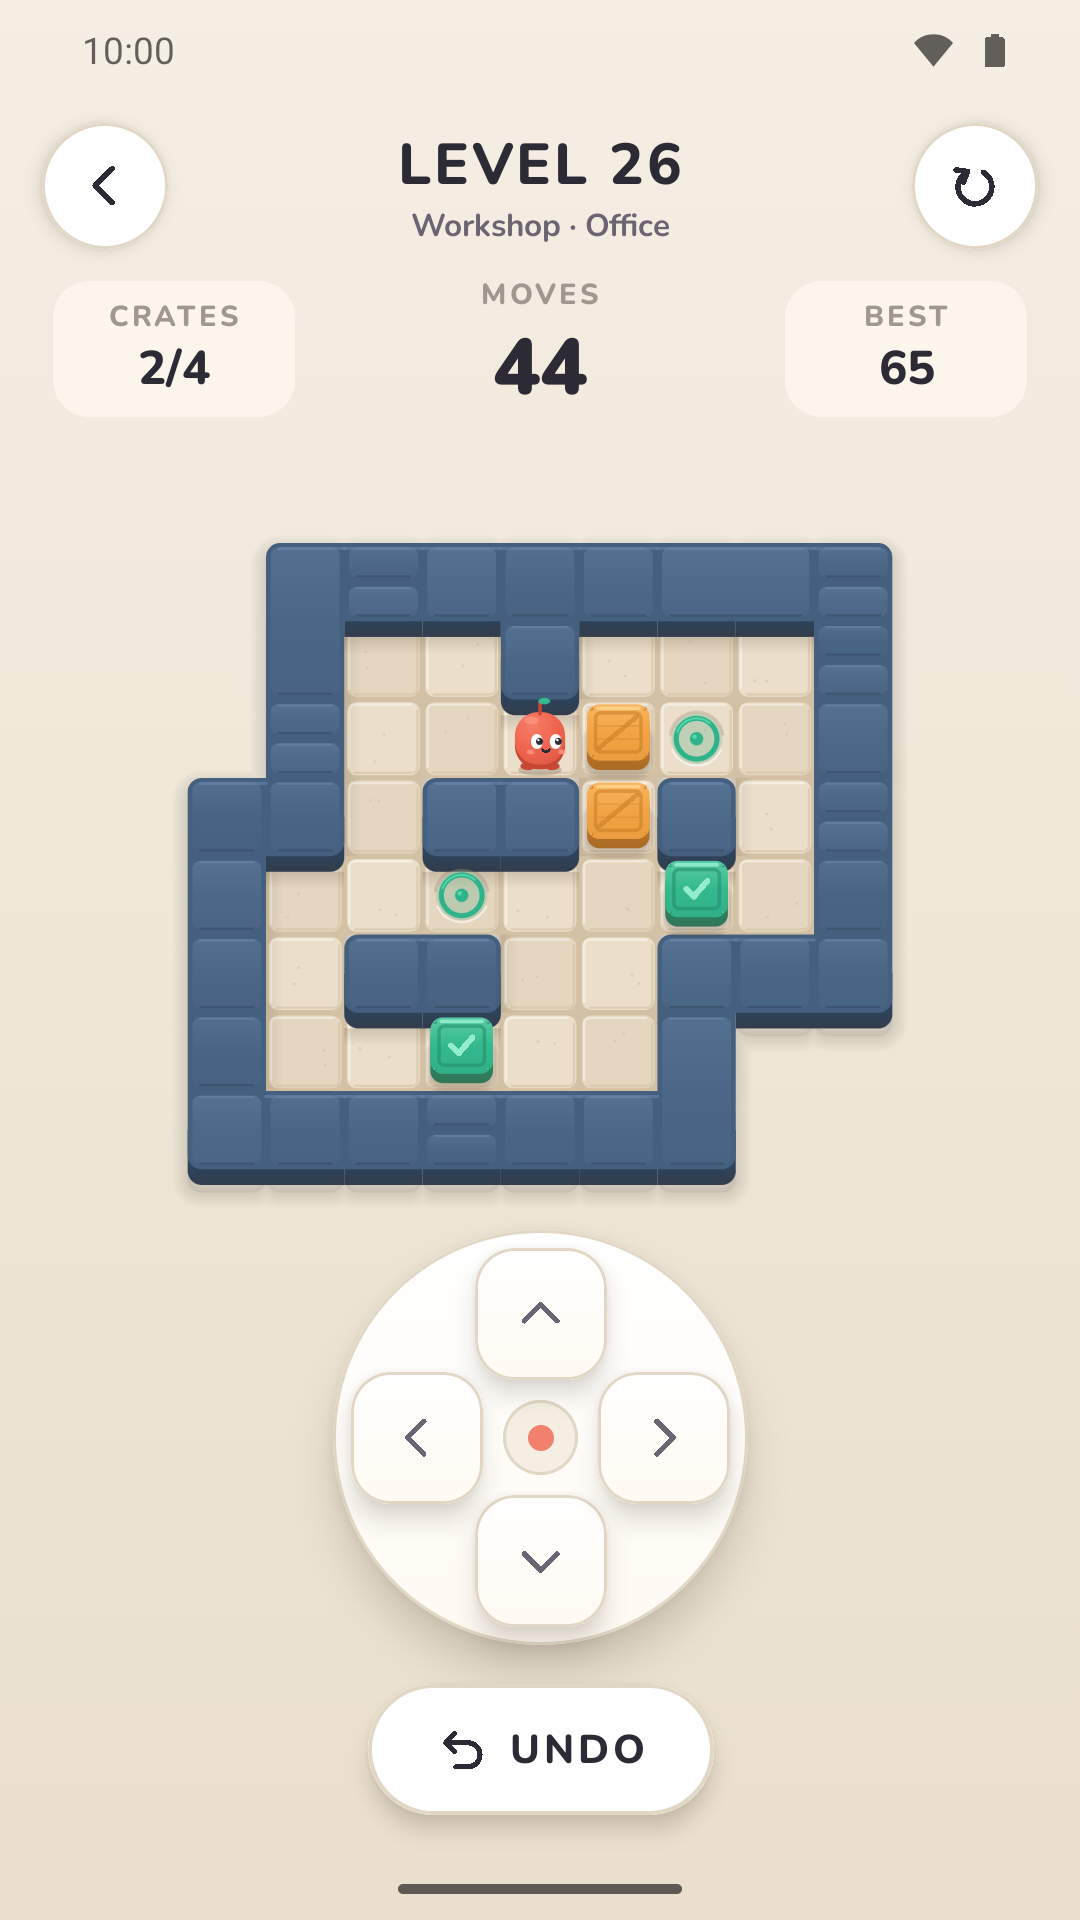
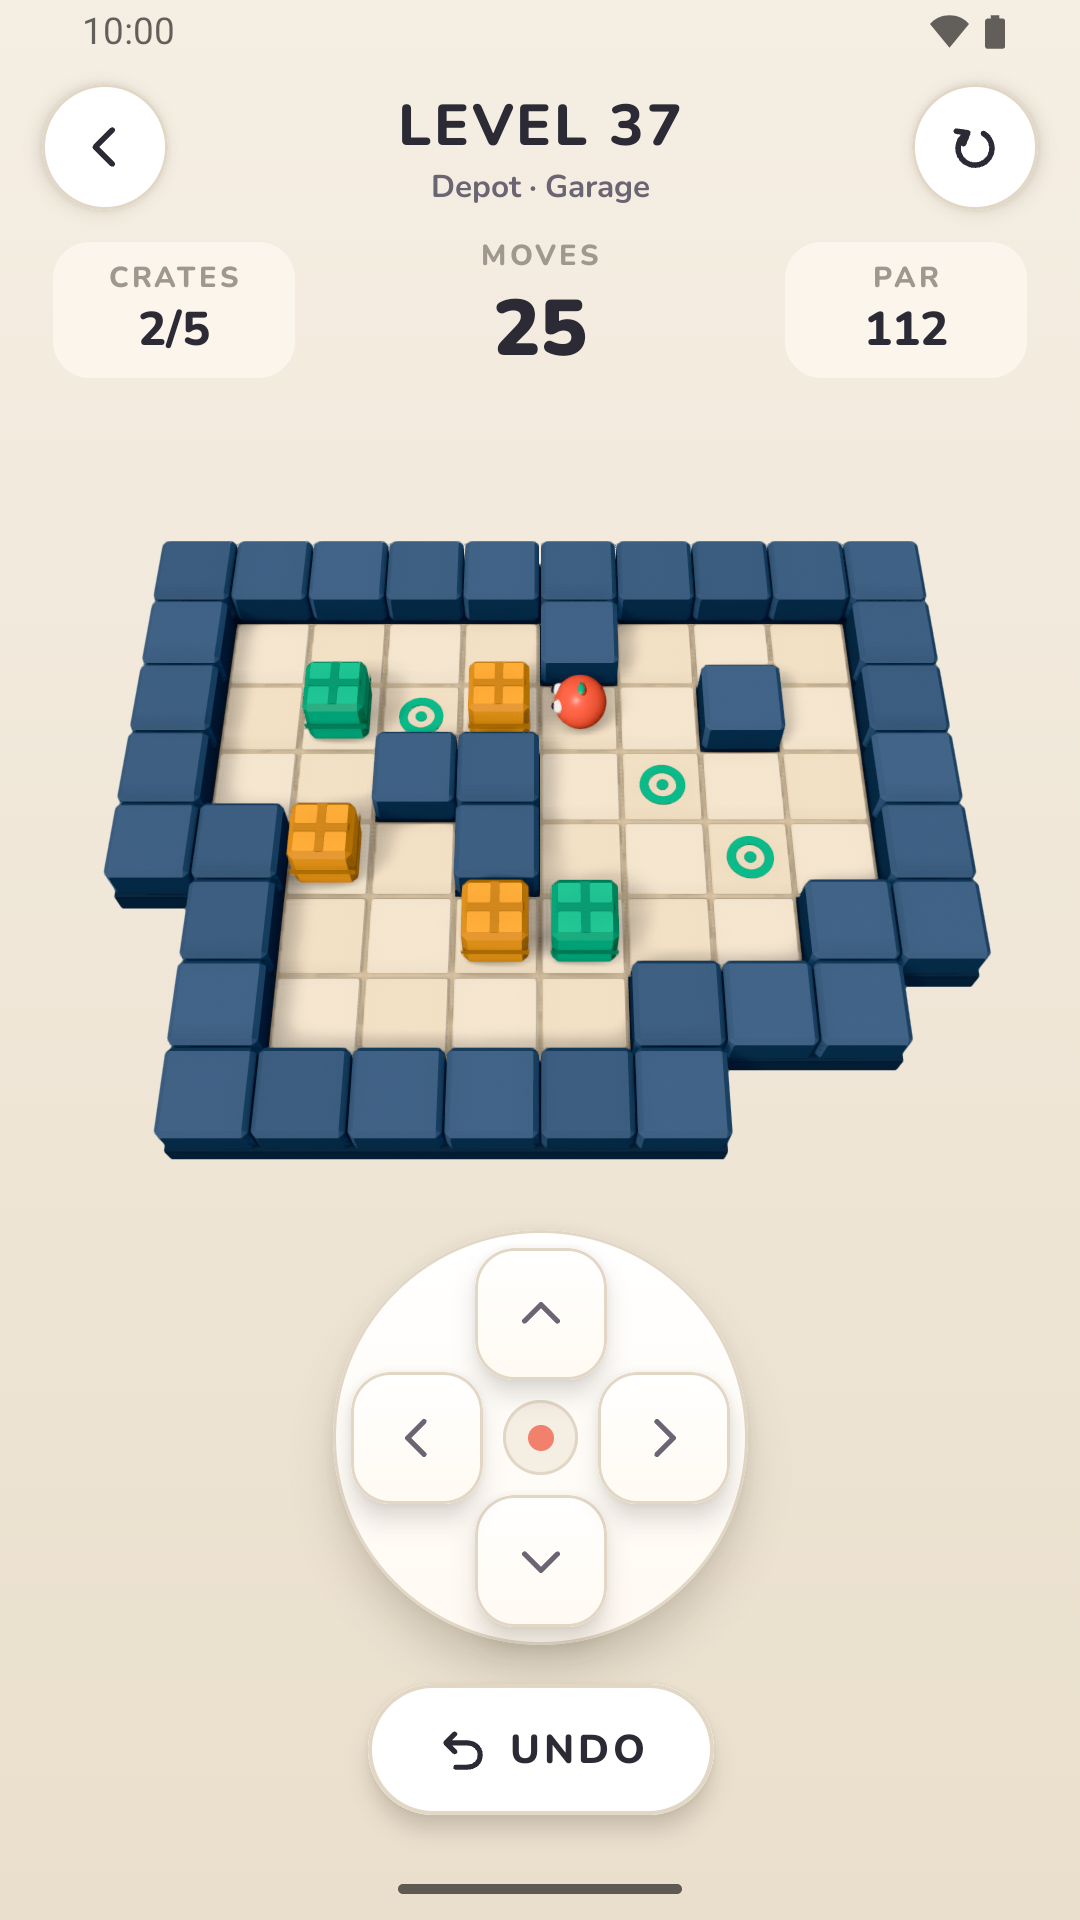
Store screenshots retaken with the 3D board, and a Khmer set
English: the 3D board, level select with map cards, the result card
and the home screen; the old 2D shots are gone. Khmer gets five of its
own, the same plus the dark theme.

diff --git a/docs/play-console.md b/docs/play-console.md
@@ -3,8 +3,8 @@
 The store listing lives in `fastlane/metadata/android/en-US/` (title, short and
 full description, icon, feature graphic, phone screenshots), in the layout
 read by `fastlane supply` and F-Droid. It can also be copied in by hand.
-`km-KH/` holds the Khmer title and descriptions; without its own images, the
-Khmer listing shows the English ones.
+`km-KH/` holds the Khmer title, descriptions and phone screenshots; with no
+icon or feature graphic of its own, the Khmer listing shows the English ones.
 
 Answers for the *App content* section, from what the app actually does:
 

diff --git a/README.md b/README.md
@@ -55,7 +55,7 @@ falling back to the debug key.
 Raise `versionCode` in `app/build.gradle.kts` for every upload.
 
 The store listing (texts, icon, feature graphic, screenshots) is in
-`fastlane/metadata/android/en-US/`, with the Khmer texts in `km-KH/`;
+`fastlane/metadata/android/en-US/`, with the Khmer texts and screenshots in `km-KH/`;
 `docs/play-console.md` has the answers for
 Play Console's *App content* section and `docs/privacy-policy.md` the privacy
 policy to host.
